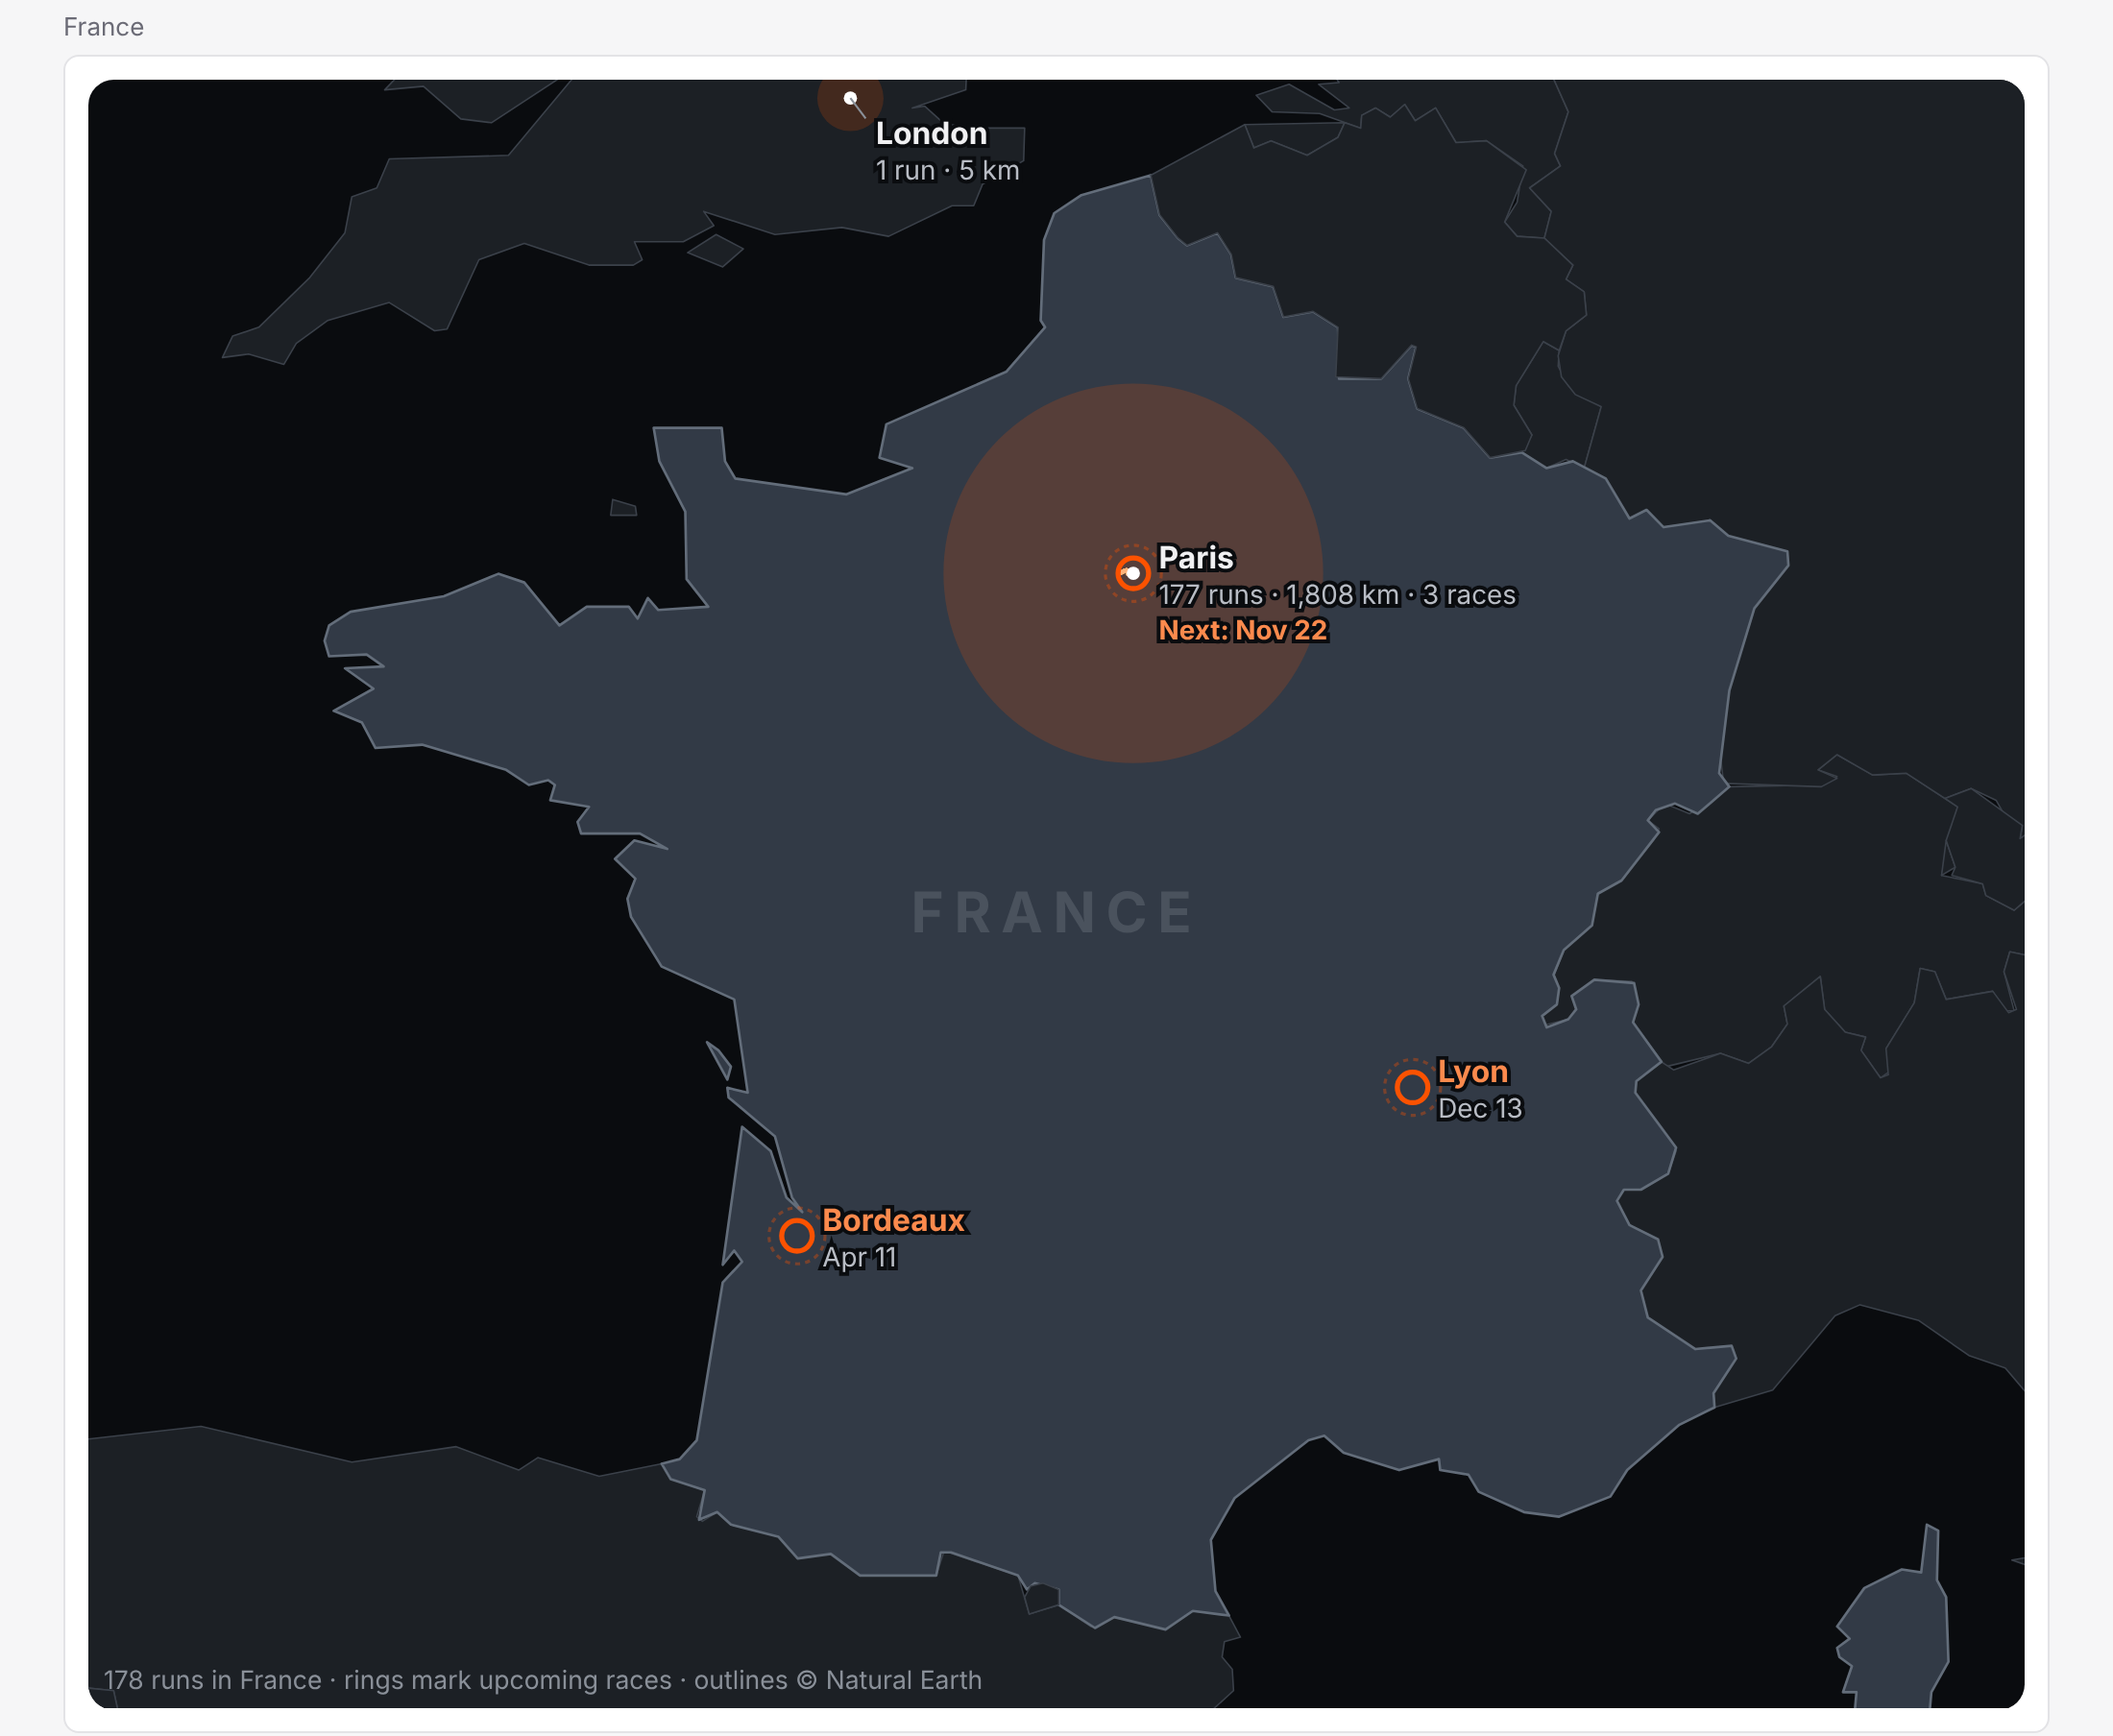
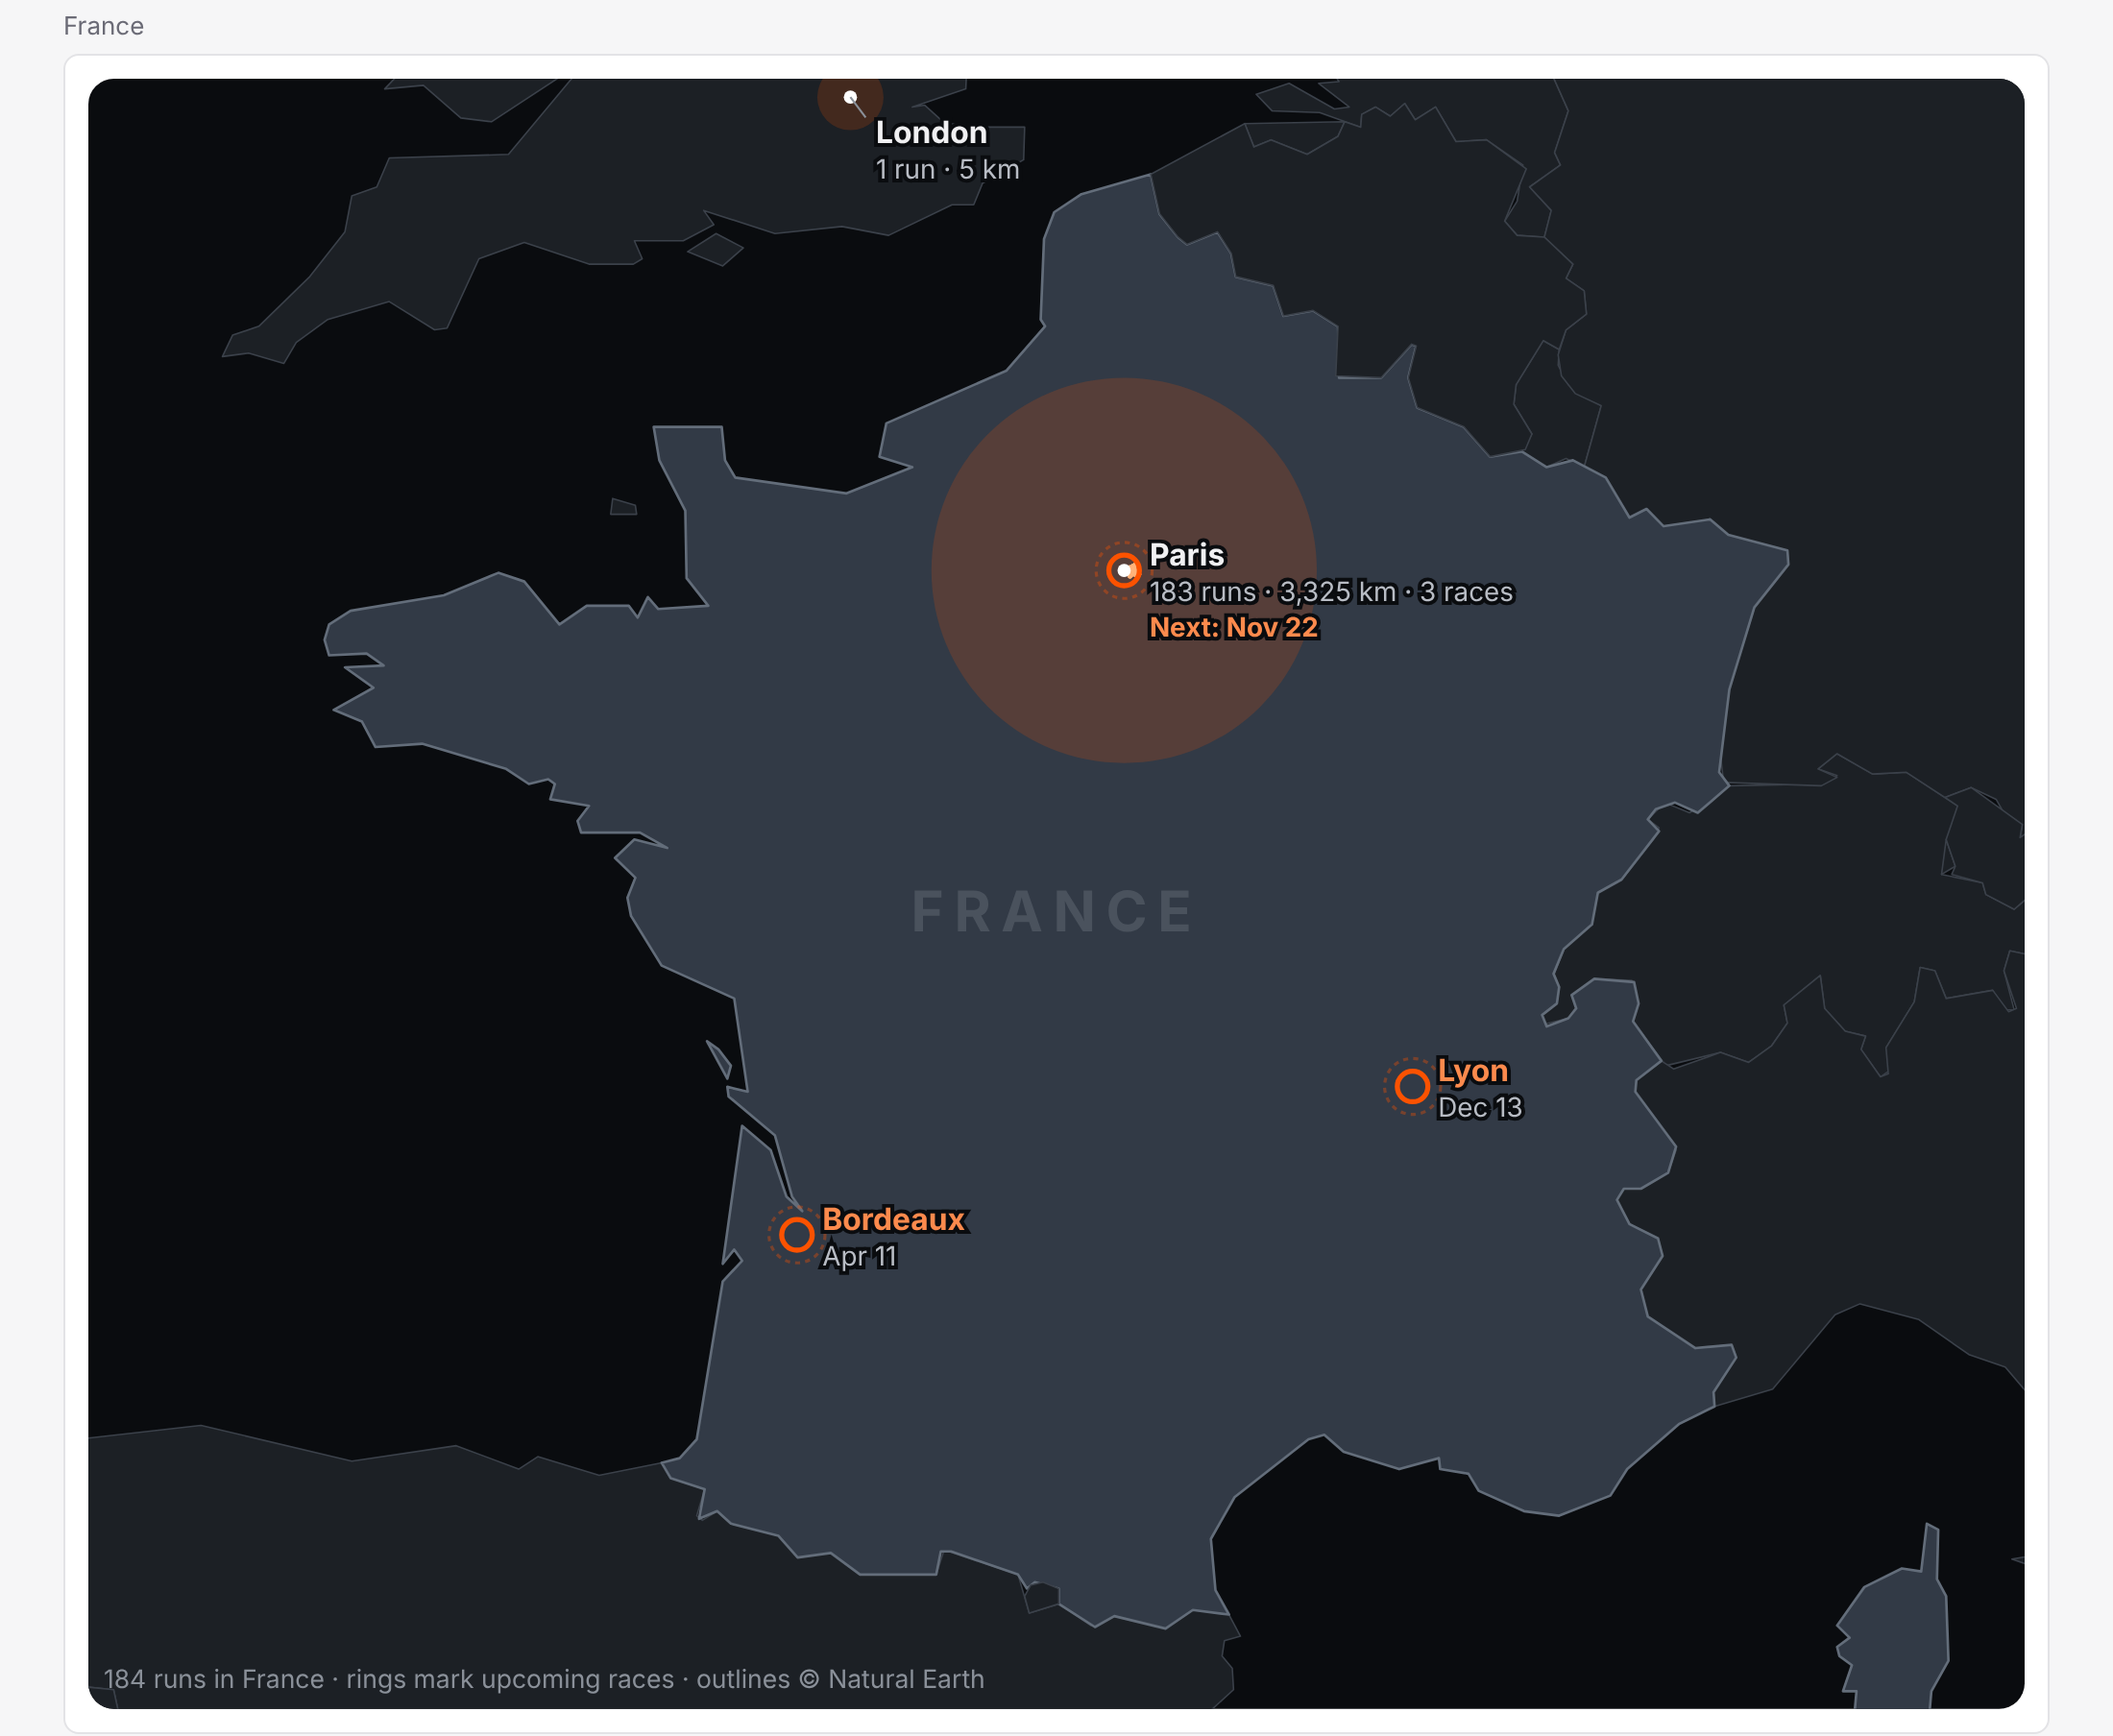
README: city heatmap and plain image links

diff --git a/README.md b/README.md
@@ -12,20 +12,13 @@ A ready-made running dashboard inside Obsidian. Point it at your running data an
 
 Everything runs locally. The plugin makes **no network requests**.
 
-<picture>
-  <source media="(prefers-color-scheme: dark)" srcset="docs/overview-dark.png">
-  <img alt="Race readiness cards, coach's note and totals" src="docs/overview-light.png">
-</picture>
+![Heatmap of every run around the runner's home city](https://raw.githubusercontent.com/bobbymckinnon/running-dashboard/main/docs/routes-light.png)
 
-<picture>
-  <source media="(prefers-color-scheme: dark)" srcset="docs/training-dark.png">
-  <img alt="Training heatmap and weekly distance chart" src="docs/training-light.png">
-</picture>
+![Race readiness cards, coach's note and totals](https://raw.githubusercontent.com/bobbymckinnon/running-dashboard/main/docs/overview-light.png)
 
-<picture>
-  <source media="(prefers-color-scheme: dark)" srcset="docs/country-dark.png">
-  <img alt="Country map with places you have run and upcoming races" src="docs/country-light.png">
-</picture>
+![Training heatmap and weekly distance chart](https://raw.githubusercontent.com/bobbymckinnon/running-dashboard/main/docs/training-light.png)
+
+![Country map with places you have run and upcoming races](https://raw.githubusercontent.com/bobbymckinnon/running-dashboard/main/docs/country-light.png)
 
 <sub>Screenshots use a fictional demo runner in Paris; the routes and races are made up.</sub>
 
